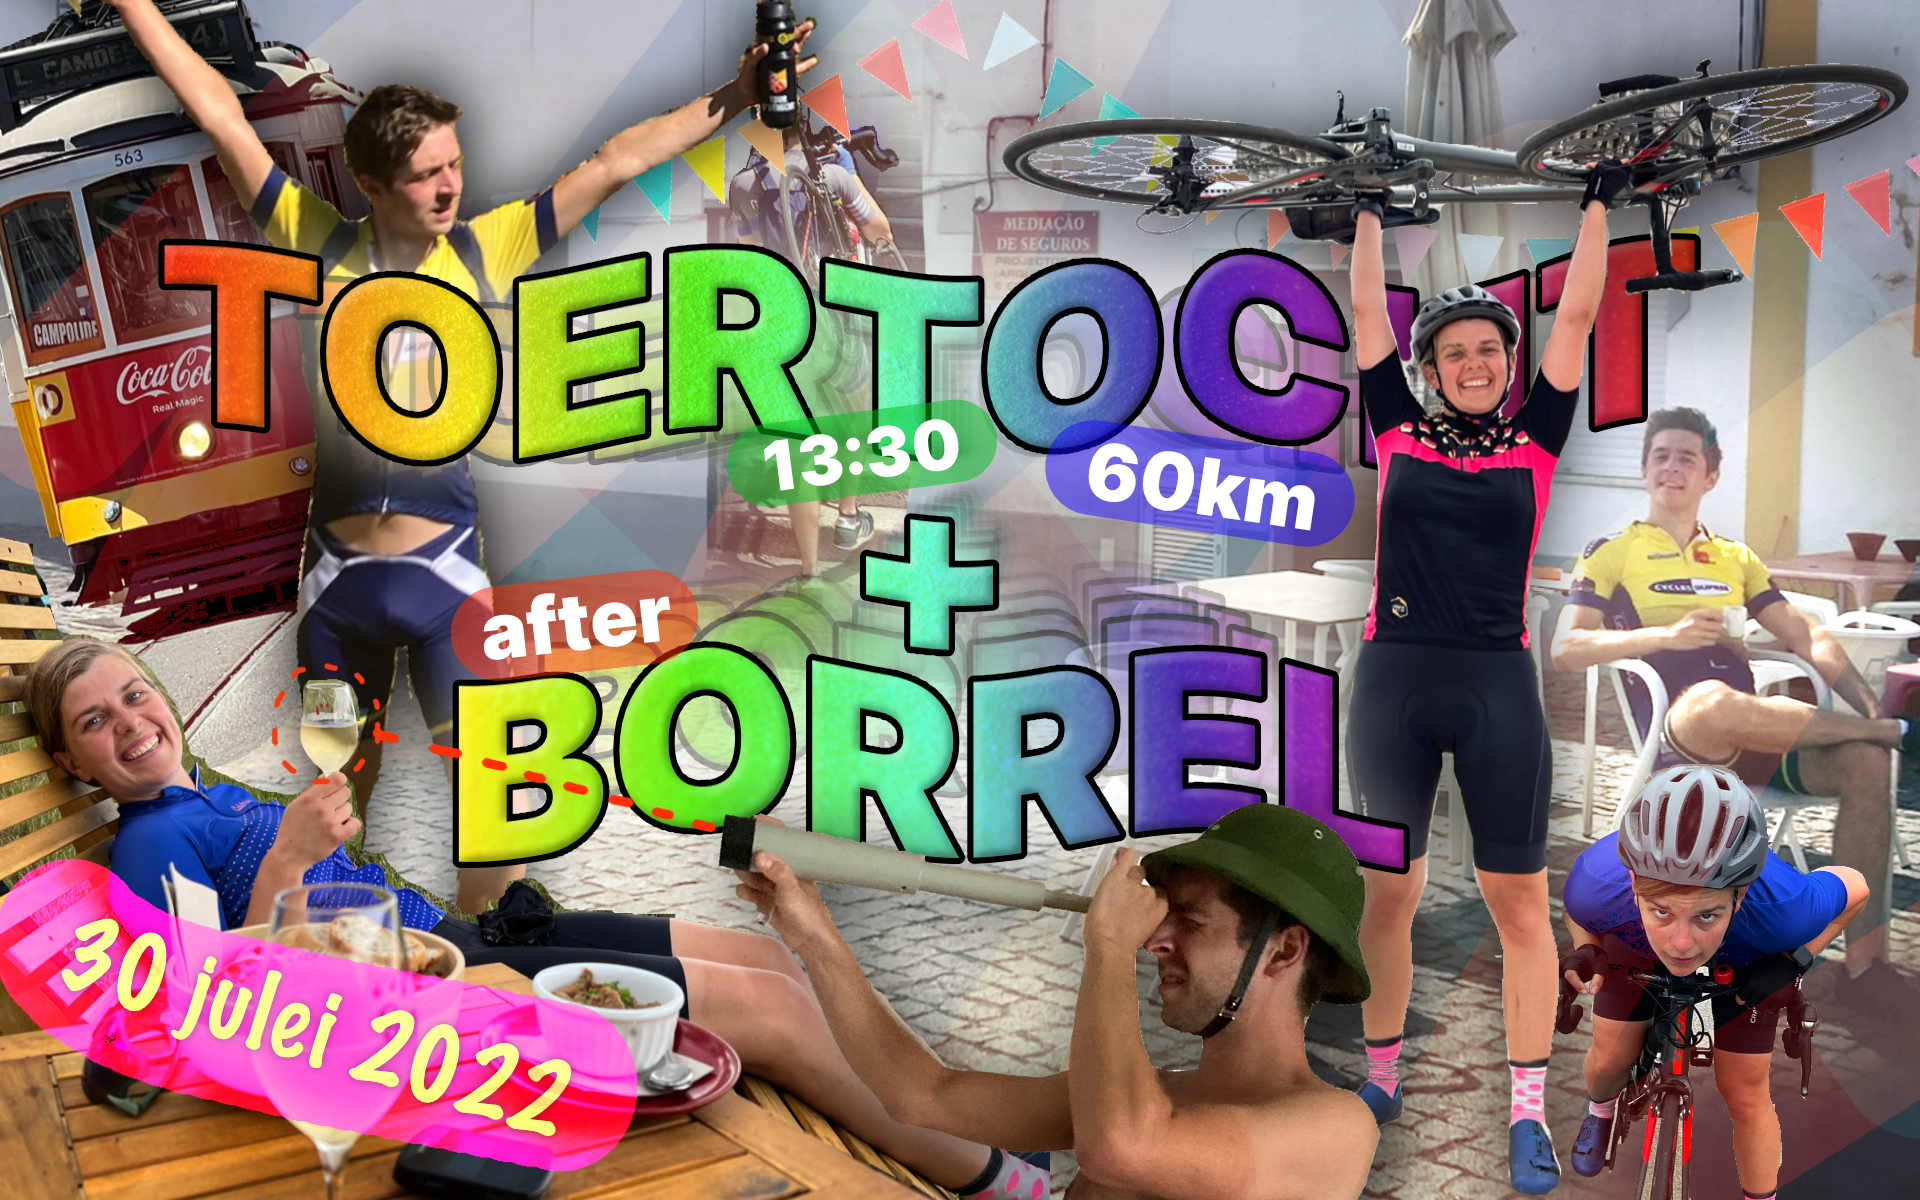
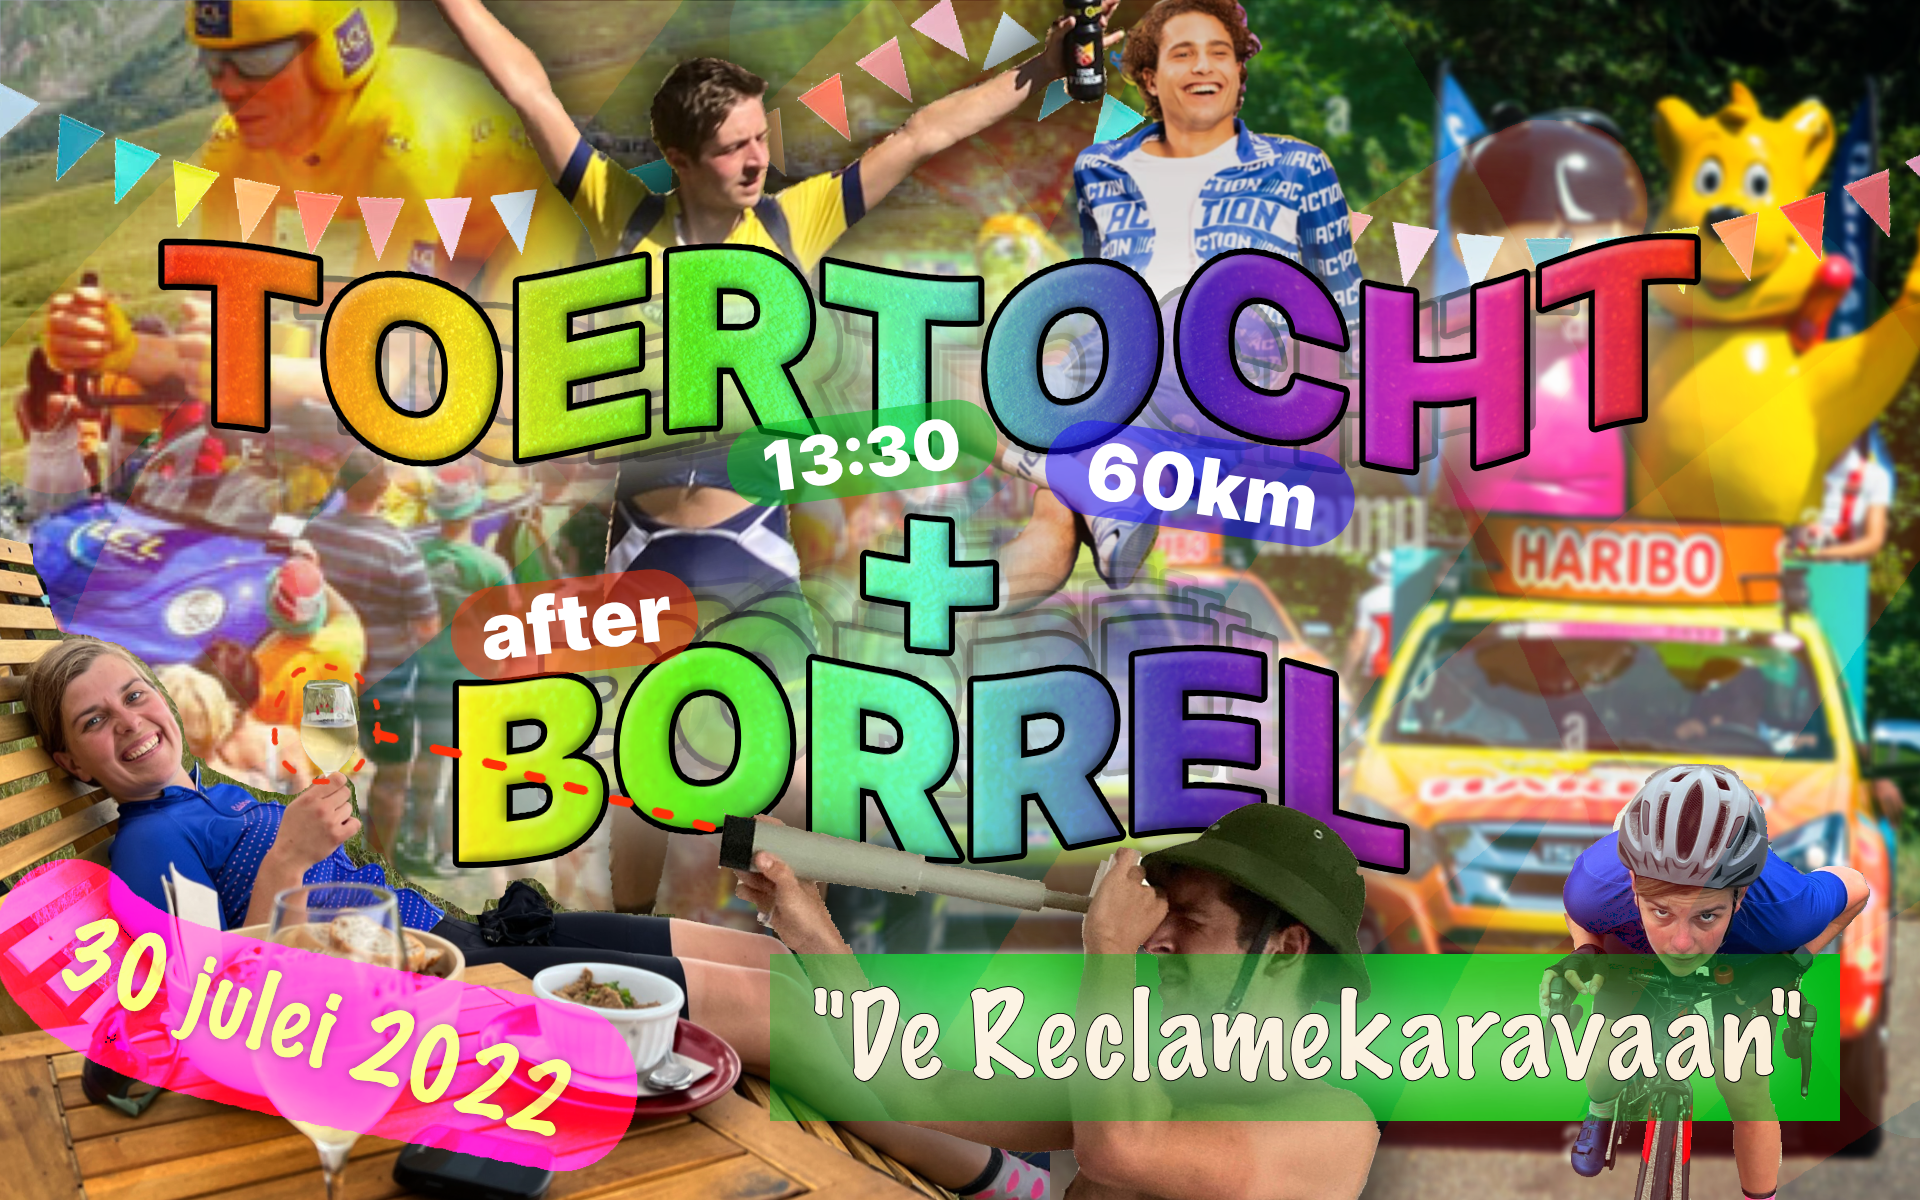
concretisering

diff --git a/index.html b/index.html
@@ -84,85 +84,220 @@
     <div class="row">
       <div class="column" style="width: 70%; margin: 0 auto; float: none">
         <br><br>
-        <p style="font-weight: bold; opacity: 0.5;">Zoals wijze, witte, dubieuze mannen <a href="https://www.youtube.com/watch?v=g2RbSa5o9Bg" target="_blank">ooit al zongen</a>:</p>
-        <p style="font-size: 1.75rem; font-style: italic; opacity: 0.75;">
-          “De reis alleen heeft veel meer waarde<br>
-Dan het eindpunt<br>
-Dus hang zelf die slingers op<br>
-Y a la meta tu vas a llegar<br>
-Kom hef je glas met mij<br>
-Nog una mas met mij<br>
-Want deze mooie tijd<br>
-Gaat veel te snel voorbij<br>
-Dus zet de avond<br>
-Voor heel even stil met mij<br>
-Laten we proosten op dat wat we hebben<br>
-Nu dat we er zijn”
-        </p>
 
-        <br>
+        <p style="font-weight: bold; opacity: 0.6; font-size: 24px;">13:15 uur - Verzamelen</p>
 
         <p style="font-size: 1.75rem;">
-          Ofterwijl: Elke dag is er reden voor een feestje.
+          We verzamelen om 13:15 uur bij <b><a href="https://goo.gl/maps/Fz7o6pSABFBxxiUy9" target="_blank">Zwembad Kromme Rijn</a></b> voor een epische groepsfoto.
+        </p>
+
+        <p style="font-weight: bold; opacity: 0.6; font-size: 24px;">13:30 uur - TOERTOCHT</p>
+ 
+        <img src="images/kaart.png" style="max-width: 100%;">
+
+        <p style="font-size: 1.75rem;">
+          Je kunt een <b>korte route</b> of <b>lange route</b> rijden. De eerste paar kilometer rijden we samen. De echte fanatiekelingen op de lange route kunnen zich melden bij de <b>snelle groep</b> en zullen tot het einde keihard doorstampen.
         </p>
 
         <p style="font-size: 1.75rem;">
-          Elke dag, dus ook op <u>30 juli 2022</u>.
-          Precies om deze prachtige reden vieren wij exact dán een feestje!
-          Daarnaast hebben we ook heel wat (wiekie)vieringen in te halen: zes verjaardagen, twee nieuwe banen, een koophuis, een gedeeld bed en veeeeeel Strava-kudo's.
-        </p>
-        
-        <p style="font-size: 1.75rem;">
-          Wiekievier zou Wiekievier niet zijn als je wel wat moet doen voordat je aan de alcohol mag.
-          We laten onze langgedroomde droom der dromen in vervulling gaan: WE ORGANISEREN EEN TOERTOCHT!
-          En JIJ bent uitgenodigd.
+          Laad de route op je Garmin/Wahoo/telefoon:
+          <ul>
+            <li style="font-size: 1.75rem"><a href="https://www.komoot.com/tour/847516566" target="_blank">GPX-bestand Korte route</a></li>
+            <li style="font-size: 1.75rem"><a href="https://www.komoot.com/tour/847354927" target="_blank">GPX-bestand Lange route</a></li>
+          </ul>
         </p>
 
         <p style="font-size: 1.75rem;">
-          We hebben summier en met oog voor (koffie)detail een route van ±60 km uitgezet die jij samen met je stalen ros én ons mag afleggen.
-          Ieder op z'n eigen tempo, net als in 't echte leven.
-          We starten om <u>13:30 uur</u>.
-          De onthulling van de startlocatie volgt later, maar is in de Domstad.
+          Onderweg zijn een sprint en een klim te vinden waarvoor je prijzen kunt winnen! Zet je Strava aan om mee te doen voor de prijzen, we checken achteraf de segmentjes.
+        </p>
+
+        <div style="min-height: 60px; padding: 24px 0 36px;">
+          <img src="images/bolletjes.png" style="height: 60px; float: left; margin-right: 20px;">
+          <div style="font-size: 1.75rem; line-height: 20px; padding-left: 20px; padding-top: 10px;">
+            De snelste <b>klimmer</b> pakt de felbegeerde bolletjes trui en bijbehorende prijs.
+          </div>
+        </div>
+
+        <div style="min-height: 60px; padding: 24px 0 36px;">
+          <img src="images/groen.png" style="height: 60px; float: left; margin-right: 20px;">
+          <div style="font-size: 1.75rem; line-height: 20px; padding-left: 20px; padding-top: 10px;">
+            De snelste <b>sprinter</b> neemt de groene trui met bijbehorende prijs mee naar huis.
+          </div>
+        </div>
+
+        <div style="min-height: 60px; padding: 24px 0 36px;">
+          <img src="images/wit.png" style="height: 60px; float: left; margin-right: 20px;">
+          <div style="font-size: 1.75rem; line-height: 20px; padding-left: 20px; padding-top: 10px;">
+            De snelste op de <b>jeugdsprint</b> wint de witte trui met prijs (alleen toegankelijk voor renners onder de 26 jaar).
+          </div>
+        </div>
+
+        <div style="min-height: 60px; padding: 24px 0 36px;">
+          <img src="images/rood.png" style="height: 60px; float: left; margin-right: 20px;">
+          <div style="font-size: 1.75rem; line-height: 20px; padding-left: 20px; padding-top: 10px;">
+            Degene met de <b>beste fiets outfit</b> sleept de rode trui incl. bijbehorende prijs binnen.
+          </div>
+        </div>
+
+        <p style="font-size: 1.75rem;">
+          We eindigen weer bij het zwembad. Fiets snel door naar huis om te douchen, je in je thema-outfit te hijsen en op je stadsfiets naar de afterborrel te komen!
         </p>
 
         <p style="font-size: 1.75rem;">
-          Daarna volgt de kers op de wielrentaart: DE BORREL.
-          In ons paleis op de <a href="https://goo.gl/maps/qEnUZNTrKNRSjynj7" target="_blank">Ridderlaan</a> wachten genoeg exotische versnaperingen met smart om opgedronken te worden.
-          Zorg dat je bezweet genoeg bent want dan mag je bij ons douchen.
-          Zoals je van ons gewend bent is er geen eindtijd voor dit festijn.
+          Woon je niet in Utrecht, heb je thuis geen douche of fiets je graag lam terug op je wielrenfiets? Fiets met ons mee en je mag achteraan de rij voor onze douche aansluiten! Laat het vantevoren even weten, dan regelen we een stalling voor je fiets.
         </p>
 
-        <p style="font-size: 1.75rem;">
-          <b>Is fietsen niks voor jou, maar borrelen wel?</b>
-          Dat kan. Snappen we. Dan kom je toch gewoon alleen borrelen? Mag je alleen niet douchen.
-        </p>
+        <p style="font-weight: bold; opacity: 0.6; font-size: 24px;">16:30 uur - THEMA BORROL</p>
 
         <p style="font-size: 1.75rem;">
-          <b>Is borrelen niks voor jou, maar fietsen wel?</b> Dan mag je helaas niet komen. 
+          Iedereen die wel eens een wielerronde heeft meegemaakt kent 'm: de <b>reclamekaravaan</b> voorafgaand aan elke Tour-etappe. Gratis meuk is voor Hollanders als wij natuurlijk de eigenlijke reden om langs de weg te staan.
         </p>
+
+        <img src="images/inspi.png" style="max-width: 100%;">
 
         <br><br>
 
-        <p style="font-size: 2.5rem;">
-          <b>KOM JE OOK?</b>
+        <p style="font-size: 1.75rem;">
+          Dus trek dat Albert Heijn-pak weer uit de kast, zet jezelf te koop en steel de show met je mooiste reclame outfit.
         </p>
 
+        <div style="min-height: 60px; padding: 24px 0;">
+          <img src="images/geel.png" style="height: 60px; float: left; margin-right: 20px;">
+          <div style="font-size: 1.75rem; line-height: 20px; padding-left: 20px; padding-top: 10px;">
+            Degene met de <b>beste thema outfit</b> sleept de gele leiders trui incl. bijbehorende prijs binnen. De enige trui waar het écht om gaat.
+          </div>
+        </div>
+
+        <br>
+
         <p style="font-size: 1.75rem">
-          Als je op de toertocht en/of de borrel komt, klik dan op de volgende knop om in een (still) Whatsapp-groep te komen. Zo weten wij hoeveel mensen er komen en zo zullen we ook de startlocatie van de toertocht bekend maken!
+          Nevenklassement: er zijn poedelprijzen voor degenen die...
+          <ul>
+            <li style="font-size: 1.75rem">te brak zijn om op te komen dagen bij de toertocht,</li>
+            <li style="font-size: 1.75rem">onderweg een hongerklop hebben gekregen en niet genoeg bananen meenamen,</li>
+            <li style="font-size: 1.75rem">hebben geklaagd over het weer (te nat, te warm, te blauw, etc),</li>
+            <li style="font-size: 1.75rem">hebben geklaagd dat ze niet hard fietsen omdat ze een zwaardere fiets hebben dan anderen,</li>
+            <li style="font-size: 1.75rem">moeten kotsen tijdens de borrel in ons mooie toilet.</li>
+          </ul>
         </p>
 
         <br>
 
-        <a class="button" href="https://chat.whatsapp.com/BVSCkP9HFOIFEoNYWNXSqL">Super mooi, ik ben er bij!</a>
+        <p style="font-weight: bold; opacity: 0.6; font-size: 24px;">Waar?</p>
 
-        <!-- <br>
-        <br> -->
+        <p style="font-size: 1.75rem;">
+          Bij ons thuis op <a href="https://goo.gl/maps/9TornGajUL7zMjkm8" target="_blank">Ridderlaan 33-2</a>. Als het lekker weer is, beginnen we op het grasveldje achter de flat!
+        </p>
 
-        <!-- <p style="font-size: 1.5rem">
-          En voor jouw administratie:
-          <a href="https://calendar.google.com/calendar/render?action=TEMPLATE&dates=20220730T113000Z%2F20220730T215900Z&details=De%20dag%20van%20je%20leven&location=Ridderlaan%2033-2%2C%20Utrecht&text=Wiekievier%20Toertocht%20%2B%20Borrel">voeg toe aan Google Calendar</a> of
-          <a href="webcal://www.wiekievier.nl/wiekievier.ics">voeg toe aan Apple agenda</a>.
-        </p> -->
+        <p style="font-weight: bold; opacity: 0.6; font-size: 24px;">Cadeautje?</p>
+
+        <p style="font-size: 1.75rem;">
+          Wil je ons graag belonen voor onze nieuwe banen, samenwonen of nog steeds in leven zijn?
+          Super lief!
+          Maar weet je niet wat je mee moet brengen?
+          Geen probleem!
+        </p>
+        <a href="https://www.lijstje.nl/wiekievier" target="_blank" class="button button-primary">Ga naar verlanglijstje 👉</a>
+
+        <br>
+        <br>
+        <br>
+        <br>
+        <hr>
+        <br>
+        <br>
+        <br>
+
+        <details>
+          <summary style="cursor: pointer">
+            <div class="button">
+              Klik om de oorspronkelijke uitnodiging uit te klappen
+              <span class="icon">👇</span>
+            </div>
+          </summary>
+          <p>
+            <p style="font-weight: bold; opacity: 0.5;">Zoals wijze, witte, dubieuze mannen <a href="https://www.youtube.com/watch?v=g2RbSa5o9Bg" target="_blank">ooit al zongen</a>:</p>
+            <p style="font-size: 1.75rem; font-style: italic; opacity: 0.75;">
+              “De reis alleen heeft veel meer waarde<br>
+    Dan het eindpunt<br>
+    Dus hang zelf die slingers op<br>
+    Y a la meta tu vas a llegar<br>
+    Kom hef je glas met mij<br>
+    Nog una mas met mij<br>
+    Want deze mooie tijd<br>
+    Gaat veel te snel voorbij<br>
+    Dus zet de avond<br>
+    Voor heel even stil met mij<br>
+    Laten we proosten op dat wat we hebben<br>
+    Nu dat we er zijn”
+            </p>
+
+            <br>
+
+            <p style="font-size: 1.75rem;">
+              Ofterwijl: Elke dag is er reden voor een feestje.
+            </p>
+
+            <p style="font-size: 1.75rem;">
+              Elke dag, dus ook op <u>30 juli 2022</u>.
+              Precies om deze prachtige reden vieren wij exact dán een feestje!
+              Daarnaast hebben we ook heel wat (wiekie)vieringen in te halen: zes verjaardagen, twee nieuwe banen, een koophuis, een gedeeld bed en veeeeeel Strava-kudo's.
+            </p>
+            
+            <p style="font-size: 1.75rem;">
+              Wiekievier zou Wiekievier niet zijn als je wel wat moet doen voordat je aan de alcohol mag.
+              We laten onze langgedroomde droom der dromen in vervulling gaan: WE ORGANISEREN EEN TOERTOCHT!
+              En JIJ bent uitgenodigd.
+            </p>
+
+            <p style="font-size: 1.75rem;">
+              We hebben summier en met oog voor (koffie)detail een route van ±60 km uitgezet die jij samen met je stalen ros én ons mag afleggen.
+              Ieder op z'n eigen tempo, net als in 't echte leven.
+              We starten om <u>13:30 uur</u>.
+              De onthulling van de startlocatie volgt later, maar is in de Domstad.
+            </p>
+
+            <p style="font-size: 1.75rem;">
+              Daarna volgt de kers op de wielrentaart: DE BORREL.
+              In ons paleis op de <a href="https://goo.gl/maps/qEnUZNTrKNRSjynj7" target="_blank">Ridderlaan</a> wachten genoeg exotische versnaperingen met smart om opgedronken te worden.
+              Zorg dat je bezweet genoeg bent want dan mag je bij ons douchen.
+              Zoals je van ons gewend bent is er geen eindtijd voor dit festijn.
+            </p>
+
+            <p style="font-size: 1.75rem;">
+              <b>Is fietsen niks voor jou, maar borrelen wel?</b>
+              Dat kan. Snappen we. Dan kom je toch gewoon alleen borrelen? Mag je alleen niet douchen.
+            </p>
+
+            <p style="font-size: 1.75rem;">
+              <b>Is borrelen niks voor jou, maar fietsen wel?</b> Dan mag je helaas niet komen. 
+            </p>
+
+            <br><br>
+
+            <p style="font-size: 2.5rem;">
+              <b>KOM JE OOK?</b>
+            </p>
+
+            <p style="font-size: 1.75rem">
+              Als je op de toertocht en/of de borrel komt, klik dan op de volgende knop om in een (still) Whatsapp-groep te komen. Zo weten wij hoeveel mensen er komen en zo zullen we ook de startlocatie van de toertocht bekend maken!
+            </p>
+
+            <br>
+
+            <a class="button" href="https://chat.whatsapp.com/BVSCkP9HFOIFEoNYWNXSqL">Super mooi, ik ben er bij!</a>
+
+            <!-- <br>
+            <br> -->
+
+            <!-- <p style="font-size: 1.5rem">
+              En voor jouw administratie:
+              <a href="https://calendar.google.com/calendar/render?action=TEMPLATE&dates=20220730T113000Z%2F20220730T215900Z&details=De%20dag%20van%20je%20leven&location=Ridderlaan%2033-2%2C%20Utrecht&text=Wiekievier%20Toertocht%20%2B%20Borrel">voeg toe aan Google Calendar</a> of
+              <a href="webcal://www.wiekievier.nl/wiekievier.ics">voeg toe aan Apple agenda</a>.
+            </p> -->
+          </p>
+        </details>
+
 
         <br>
         <br>

diff --git a/css/skeleton.css b/css/skeleton.css
@@ -175,16 +175,16 @@ input[type="button"] {
   padding: 0 30px;
   color: #555;
   text-align: center;
-  font-size: 11px;
+  font-size: 13px;
   font-weight: 600;
   line-height: 38px;
   letter-spacing: .1rem;
   text-transform: uppercase;
   text-decoration: none;
   white-space: nowrap;
-  background-color: transparent;
+  background-color: rgb(245, 245, 245);
   border-radius: 4px;
-  border: 1px solid #bbb;
+  border: 2px solid rgb(224, 224, 224);
   cursor: pointer;
   box-sizing: border-box; }
 .button:hover,
